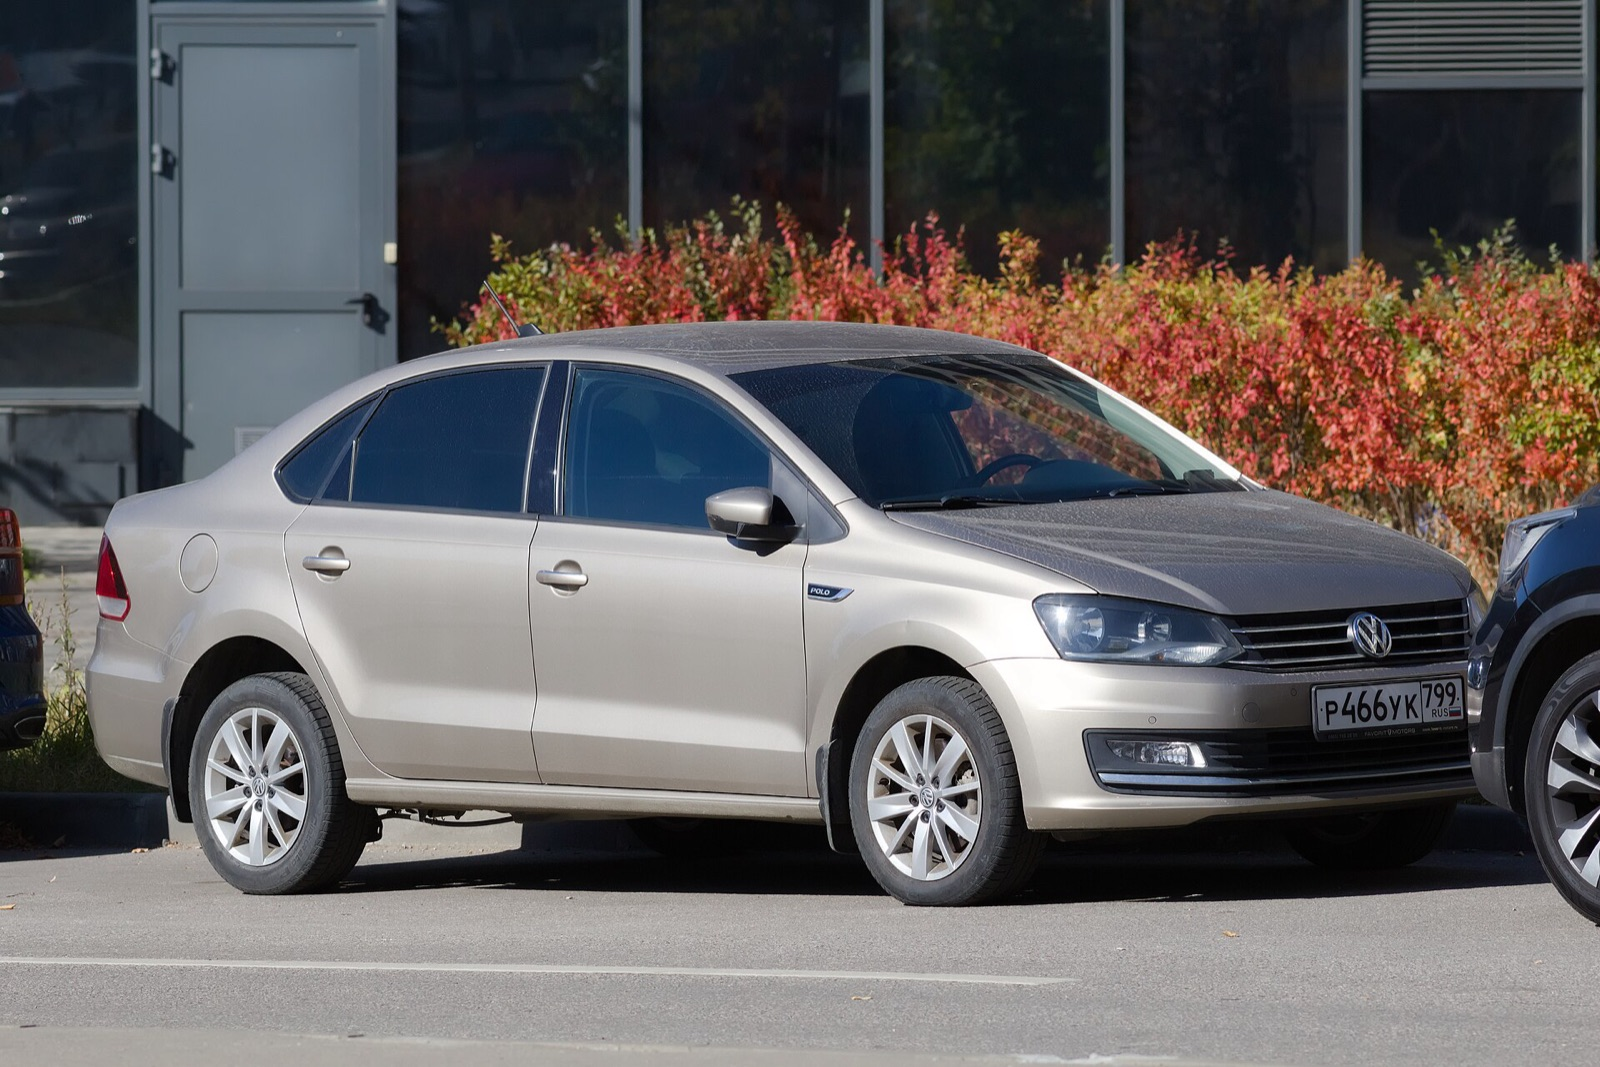
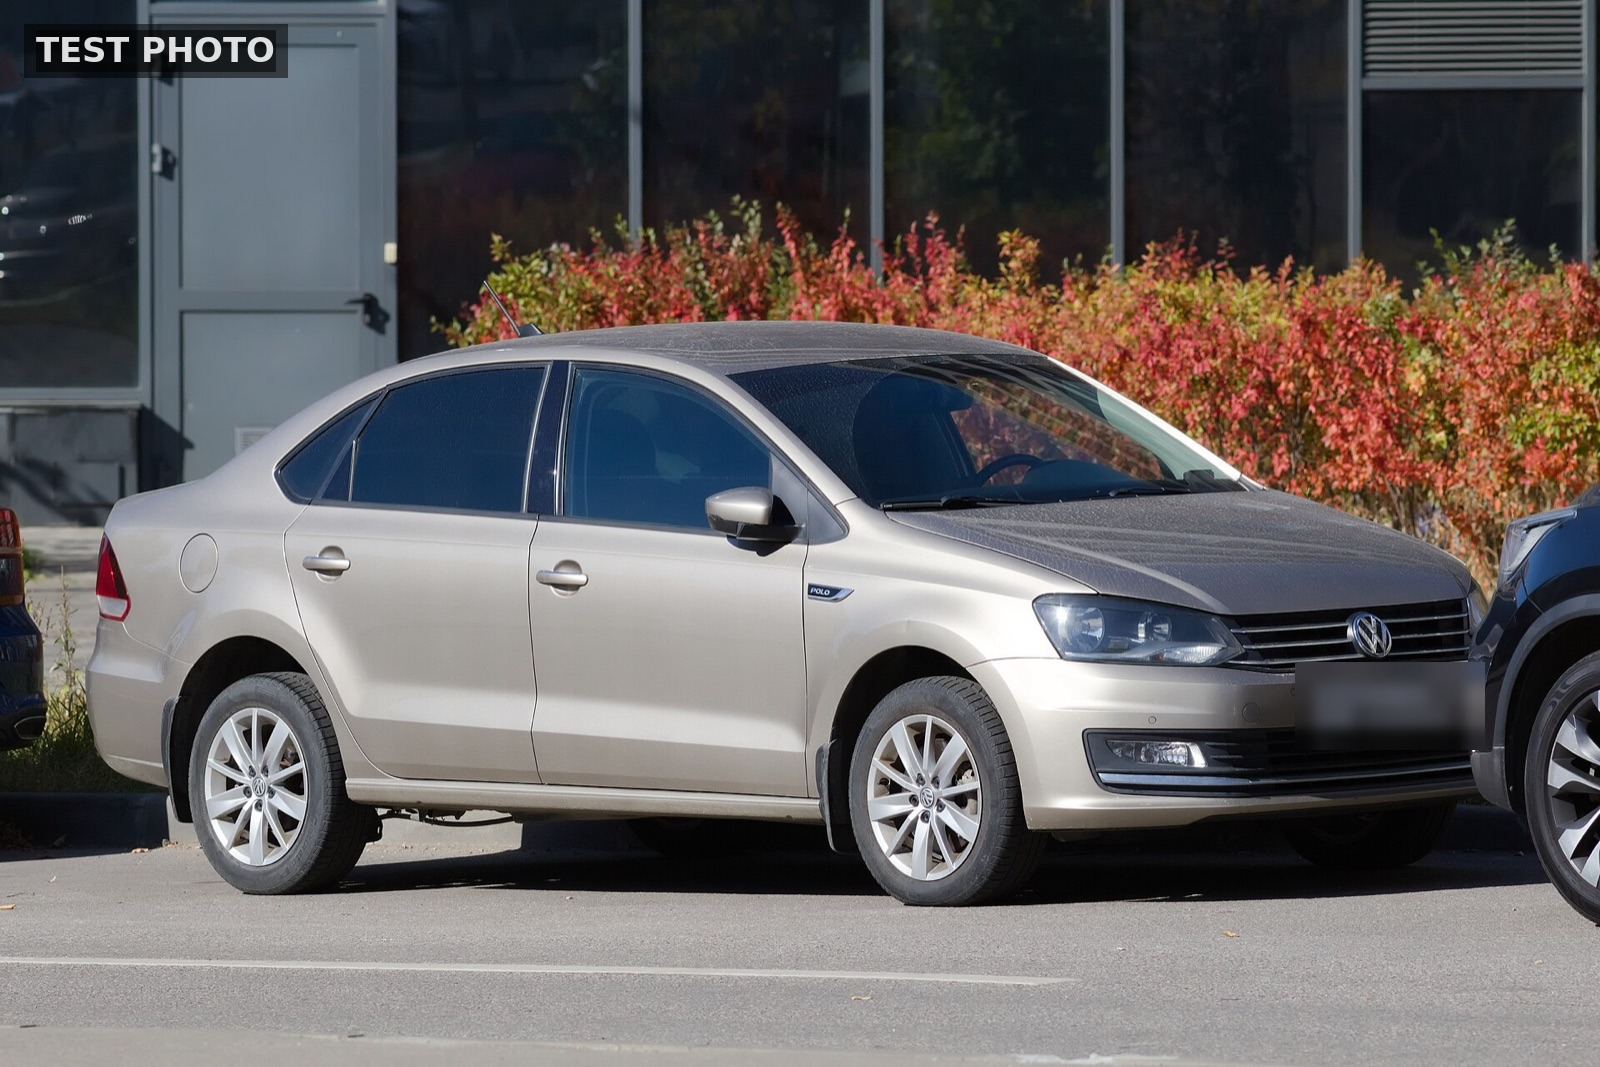
Test photos: blur plate zones, add TEST PHOTO mark (blur.sh)

Changed region(s): [[0.0, 0.0, 0.1875, 0.0928], [0.8125, 0.6186, 0.9375, 0.6804]]

diff --git a/be/internal/test_utils/s3/cars/CREDITS.md b/be/internal/test_utils/s3/cars/CREDITS.md
@@ -4,6 +4,14 @@
 общественном достоянии (атрибуция не обязательна, но указана). Уменьшены: `car-N.jpg` — 1600 px по
 ширине (полное фото), `car-N_thumb.jpg` — 480 px (миниатюра). Номера на части снимков замазаны авторами.
 
+**Изменено:** номер на снимке не совпадает с номером фиксации в тестовых данных, поэтому на всех
+файлах номерная зона пикселизована и размыта (у `car-4` — рамка дилера на месте номера, на `car-8`
+номера в кадре нет), а в левом верхнем углу стоит полупрозрачная метка «TEST PHOTO». Обработка —
+`../blur.sh` (ImageMagick из образа `dpokidov/imagemagick` с Docker Hub): берёт необработанные
+оригиналы из git (коммит `4496f56`) или из каталога-аргумента (например, заново скачанные по
+ссылкам ниже и уменьшенные до 1600/480 px) и перезаписывает файлы здесь. Зоны номеров заданы в
+скрипте.
+
 | Файлы | Оригинал | Автор | Лицензия |
 |---|---|---|---|
 | `car-1.jpg`, `car-1_thumb.jpg` | [Moscow, VW Polo sedan pale-grey, Sept 2025 01.jpg](https://commons.wikimedia.org/wiki/File:Moscow,_VW_Polo_sedan_pale-grey,_Sept_2025_01.jpg) | Retired electrician | CC0 |
